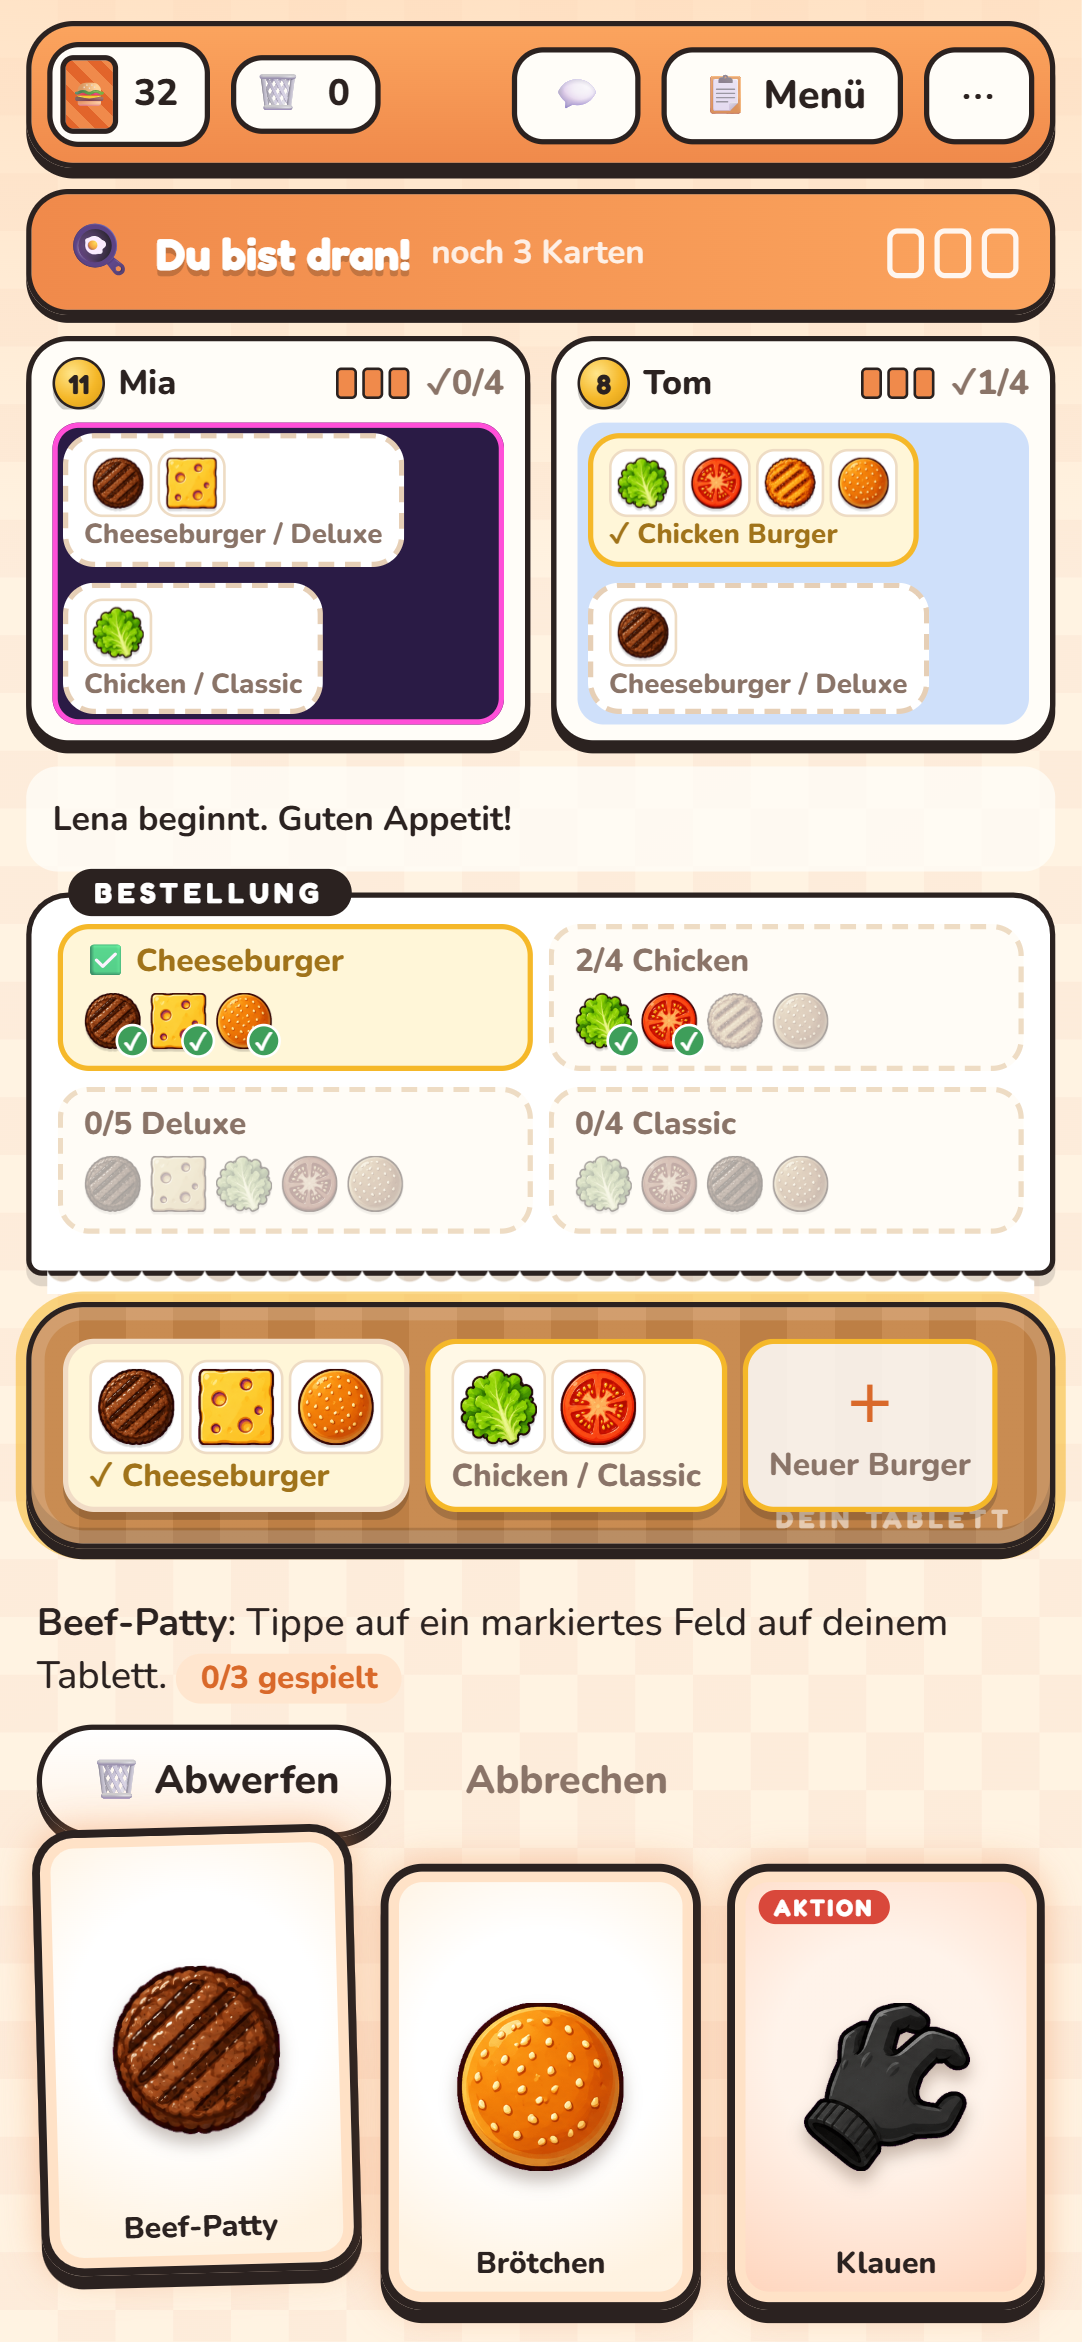
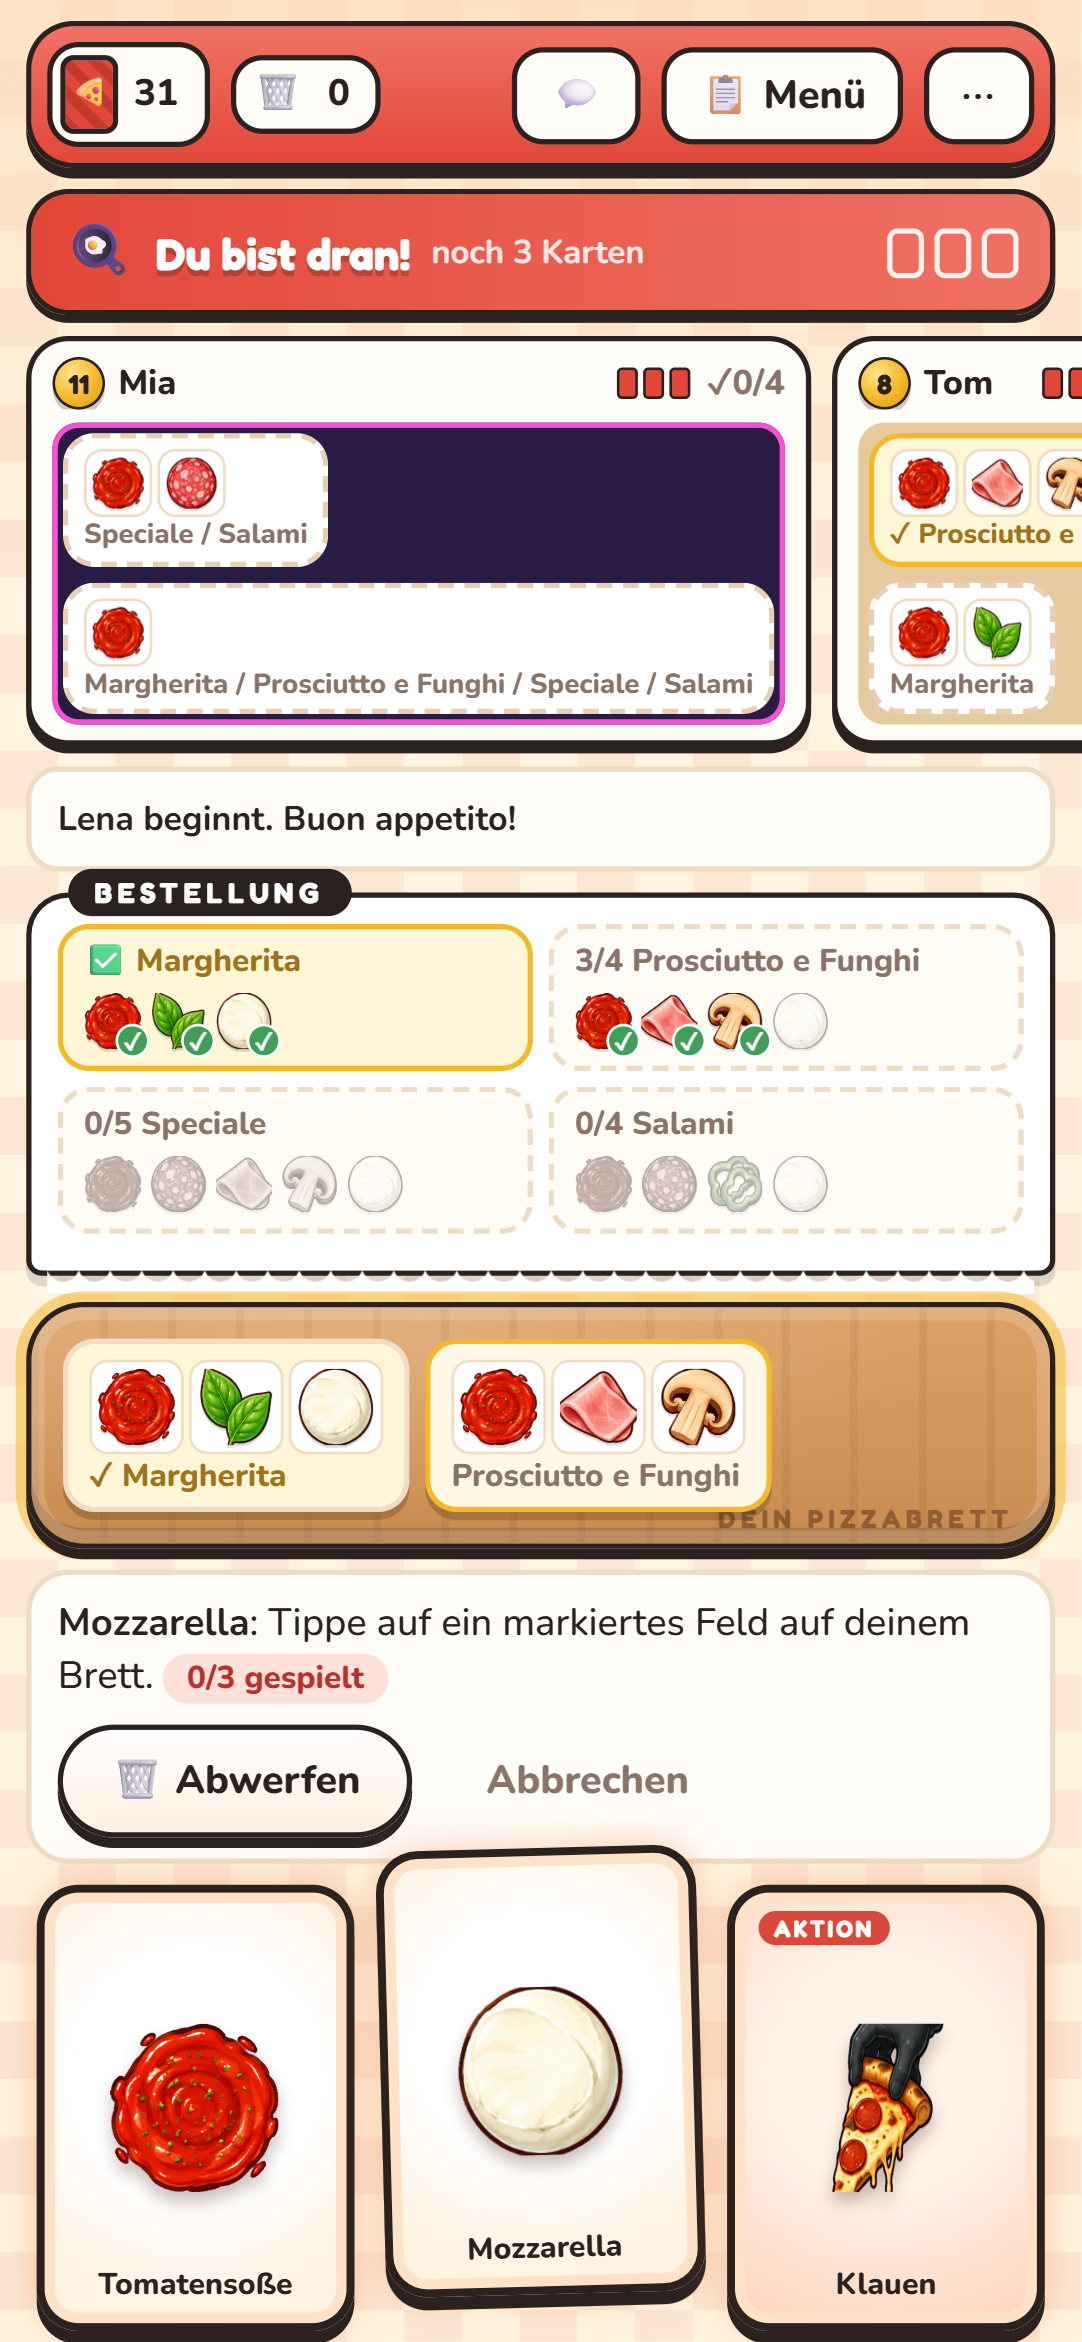
Store-Eintrag: Texte, 8 Screenshots, Vorstellungsgrafik für Pizza Panic

diff --git a/tools/store-promo/promo.html b/tools/store-promo/promo.html
@@ -3,61 +3,59 @@
 <head>
 <meta charset="utf-8">
 <link rel="stylesheet" href="fonts.css">
+<!-- Store-Bilder: Ordner mit fonts.css, fonts/, img/ und _shots/ (Rohbilder aus tools/store-promo/shots) bereitstellen,
+     dann ?n=1..8 (1080x1920) bzw. ?feature=1 (1024x500) im Browser öffnen und als Bild speichern. -->
 <style>
   * { box-sizing: border-box; margin: 0; }
   body { width: 1080px; height: 1920px; overflow: hidden; font-family: 'Nunito', sans-serif; }
   .slide {
     position: relative; width: 1080px; height: 1920px; overflow: hidden;
     background:
-      radial-gradient(900px 700px at 50% 0%, #FFB37A 0%, rgba(255, 179, 122, 0) 70%),
-      repeating-conic-gradient(rgba(255, 255, 255, .07) 0 25%, transparent 0 50%) 0 0 / 90px 90px,
-      linear-gradient(170deg, #F79A5A 0%, #EE7B3A 55%, #D9592A 100%);
+      radial-gradient(900px 700px at 50% 0%, #F7857A 0%, rgba(247, 133, 122, 0) 70%),
+      repeating-conic-gradient(rgba(255, 255, 255, .08) 0 25%, transparent 0 50%) 0 0 / 90px 90px,
+      linear-gradient(170deg, #E9564A 0%, #D23E32 55%, #A92A22 100%);
   }
   .cap { position: absolute; top: 70px; left: 60px; right: 60px; text-align: center; color: #fff; }
   .cap h1 {
     font: 700 84px/1.02 'Fredoka', sans-serif; letter-spacing: .5px;
     -webkit-text-stroke: 9px #2B2220; paint-order: stroke fill; text-shadow: 0 8px 0 rgba(43, 34, 32, .35);
   }
-  .cap p { margin-top: 22px; font: 800 38px/1.25 'Nunito', sans-serif; color: #FFF3E2; text-shadow: 0 3px 0 rgba(43, 34, 32, .3); }
+  .cap p { margin-top: 22px; font: 800 38px/1.25 'Nunito', sans-serif; color: #FFF4E0; text-shadow: 0 3px 0 rgba(43, 34, 32, .3); }
   .phone {
     position: absolute; left: 50%; top: 400px; transform: translateX(-50%) rotate(var(--rot, 0deg));
     width: 700px; padding: 22px; border-radius: 76px; background: #2B2220;
-    box-shadow: 0 30px 60px rgba(60, 20, 0, .45), inset 0 0 0 4px #4A3A35;
+    box-shadow: 0 30px 60px rgba(60, 10, 0, .45), inset 0 0 0 4px #4A3A35;
   }
   .phone img.shot { display: block; width: 100%; border-radius: 56px; }
   .phone::before { content: ''; position: absolute; top: 40px; left: 50%; width: 22px; height: 22px; margin-left: -11px; border-radius: 50%; background: #111; z-index: 2; }
   .deco { position: absolute; width: 190px; filter: drop-shadow(0 12px 10px rgba(0, 0, 0, .3)); }
-  .badge {
-    position: absolute; padding: 14px 26px; border-radius: 999px; background: #FFE58A; border: 6px solid #2B2220;
-    font: 700 40px 'Fredoka', sans-serif; color: #2B2220; box-shadow: 0 8px 0 #2B2220; transform: rotate(-6deg);
-  }
   /* Vorstellungsgrafik 1024x500 */
   .feature { width: 1024px; height: 500px; position: relative; overflow: hidden;
     background:
-      radial-gradient(600px 400px at 30% 40%, #FFB37A 0%, rgba(255, 179, 122, 0) 70%),
-      repeating-conic-gradient(rgba(255, 255, 255, .07) 0 25%, transparent 0 50%) 0 0 / 60px 60px,
-      linear-gradient(160deg, #F79A5A, #E2652B);
+      radial-gradient(600px 400px at 30% 40%, #F7857A 0%, rgba(247, 133, 122, 0) 70%),
+      repeating-conic-gradient(rgba(255, 255, 255, .08) 0 25%, transparent 0 50%) 0 0 / 60px 60px,
+      linear-gradient(160deg, #E9564A, #B8322A);
   }
-  .feature .logo { position: absolute; left: 40px; top: 26px; height: 330px; filter: drop-shadow(0 12px 12px rgba(0, 0, 0, .3)); }
+  .feature .logo { position: absolute; left: 40px; top: 14px; height: 360px; filter: drop-shadow(0 12px 12px rgba(0, 0, 0, .3)); }
   .feature .chef { position: absolute; right: 30px; bottom: -10px; height: 470px; filter: drop-shadow(0 12px 12px rgba(0, 0, 0, .3)); }
   .feature .tag { position: absolute; left: 50px; bottom: 34px; font: 700 44px 'Fredoka', sans-serif; color: #fff;
     -webkit-text-stroke: 6px #2B2220; paint-order: stroke fill; }
-  .feature .ings { position: absolute; left: 560px; top: 60px; display: flex; flex-direction: column; gap: 14px; }
-  .feature .ings img { width: 70px; filter: drop-shadow(0 6px 4px rgba(0, 0, 0, .3)); }
+  .feature .ings { position: absolute; left: 470px; top: 40px; display: grid; grid-template-columns: repeat(2, 80px); gap: 14px; }
+  .feature .ings img { width: 80px; filter: drop-shadow(0 6px 4px rgba(0, 0, 0, .3)); }
 </style>
 </head>
 <body>
 <div id="root"></div>
 <script>
   const SLIDES = {
-    1: { h: 'Bau Burger.<br>Smash die Konkurrenz!', p: 'Das Online-Kartenspiel für 2–6 Freunde', shot: '1-home', deco: [['burn', 40, 1500, -12], ['steal', 860, 1480, 10]] },
-    2: { h: 'Bau alle Burger<br>deiner Bestellung', p: 'Leuchtende Felder zeigen dir, wo deine Karte hinpasst', shot: '2-game', deco: [['beef', 30, 1560, -8], ['bun', 880, 1590, 12]] },
+    1: { h: 'Belege Pizzen.<br>Stifte Panik!', p: 'Das Online-Kartenspiel für 2–6 Freunde', shot: '1-home', deco: [['burn', 40, 1500, -12], ['steal', 860, 1480, 10]] },
+    2: { h: 'Belege alle Pizzen<br>deiner Bestellung', p: 'Leuchtende Felder zeigen dir, wo deine Karte hinpasst', shot: '2-game', deco: [['sauce', 30, 1560, -8], ['mozzarella', 880, 1590, 12]] },
     3: { h: 'Klauen, Anbrennen,<br>Chaos stiften!', p: 'Mit Aktionskarten ärgerst du die Konkurrenz', shot: '3-steal', rot: '-2deg', deco: [['steal', 20, 1450, -15], ['burn', 870, 1500, 14]] },
-    4: { h: '5 Themen-Packs', p: 'Neue Zutaten, Spezial-Burger und eigener Look – jede Runde eine neue Speisekarte', shot: '4-theme', deco: [['pumpkin', 30, 1520, -10], ['monstersauce', 870, 1560, 10]] },
-    5: { h: 'Tabletts & Emotes<br>freischalten', p: 'Münzen verdienst du in jeder Runde', shot: '5-shop', deco: [['pineapple', 30, 1560, -10], ['jalapeno', 880, 1540, 12]] },
-    6: { h: 'Koch Kalle<br>erklärt dir alles', p: 'Lerne das Spiel Schritt für Schritt in einer Übungsrunde', shot: '6-tutorial', chef: 'chef-wave' },
-    7: { h: 'Freunde, Spieler<br>oder Bots', p: 'Schnelles Spiel mit Gegnern auf deinem Level – oder sofort gegen Bots', shot: '7-quick', deco: [['salad', 30, 1560, -10], ['tomato', 880, 1560, 12]] },
-    8: { h: 'Steig auf bis zur<br>Burger-Legende', p: 'Sammle XP, steig im Level auf und schalte Belohnungen frei', shot: '8-win', chef: 'chef-cheer' },
+    4: { h: '5 Themen-Packs', p: 'Neue Zutaten, Spezial-Pizzen und eigener Look – jede Runde eine neue Bestellung', shot: '4-theme', deco: [['peperoni', 30, 1520, -10], ['onion', 870, 1560, 10]] },
+    5: { h: 'Pizzabretter & Emotes<br>freischalten', p: 'Münzen verdienst du in jeder Runde', shot: '5-shop', deco: [['pineapple', 30, 1560, -10], ['olive', 880, 1540, 12]] },
+    6: { h: 'Pizzabäcker Luigi<br>erklärt dir alles', p: 'Lerne das Spiel Schritt für Schritt in einer Übungsrunde', shot: '6-tutorial', chef: 'chef-wave' },
+    7: { h: 'Freunde, Spieler<br>oder Bots', p: 'Schnelles Spiel mit Gegnern auf deinem Level – oder sofort gegen Bots', shot: '7-quick', deco: [['basil', 30, 1560, -10], ['mushroom', 880, 1560, 12]] },
+    8: { h: 'Steig auf bis zur<br>Pizza-Legende', p: 'Sammle XP, steig im Level auf und schalte Belohnungen frei', shot: '8-win', chef: 'chef-cheer' },
   };
   const q = new URLSearchParams(location.search);
   const root = document.getElementById('root');
@@ -65,9 +63,9 @@
     document.body.style.width = '1024px'; document.body.style.height = '500px';
     root.innerHTML = `<div class="feature">
       <img class="logo" src="img/logo.png">
-      <div class="ings">${['beef', 'cheese', 'salad', 'tomato'].map(i => `<img src="img/${i}.png">`).join('')}</div>
+      <div class="ings">${['sauce', 'basil', 'salami', 'mushroom', 'pepper', 'mozzarella'].map(i => `<img src="img/${i}.png">`).join('')}</div>
       <img class="chef" src="img/chef-cheer.png">
-      <div class="tag">Das Burger-Kartenspiel für Freunde!</div>
+      <div class="tag">Das Pizza-Kartenspiel für Freunde!</div>
     </div>`;
   } else {
     const s = SLIDES[q.get('n') || 1];
@@ -75,7 +73,7 @@
       <div class="cap"><h1>${s.h}</h1><p>${s.p}</p></div>
       <div class="phone" style="--rot:${s.rot || '0deg'}"><img class="shot" src="_shots/${s.shot}.png"></div>
       ${(s.deco || []).map(([img, x, y, r]) => `<img class="deco" src="img/${img}.png" style="left:${x}px;top:${y}px;transform:rotate(${r}deg)">`).join('')}
-      ${s.chef ? `<img class="deco" src="img/${s.chef}.png" style="width:300px;left:-10px;top:1460px">` : ''}
+      ${s.chef ? `<img class="deco" src="img/${s.chef}.png" style="width:300px;left:-10px;top:1320px">` : ''}
     </div>`;
   }
 </script>

diff --git a/store/store-eintrag.md b/store/store-eintrag.md
@@ -1,54 +1,56 @@
-# Play-Store-Eintrag – Smash Burger
+# Play-Store-Eintrag – Pizza Panic
 
-**App-Name (max. 30):** Smash Burger – Kartenspiel
+**App-Name (max. 30):** Pizza Panic – Kartenspiel
 
 **Kurzbeschreibung (max. 80):**
-Bau deine Burger, klau die der anderen – das Online-Kartenspiel für 2–6 Freunde!
+Belege Pizzen, klau die der anderen – das Online-Kartenspiel für 2–6 Freunde!
 
 **Vollständige Beschreibung:**
 
-Bereite deinen Burger zu. Smashe die Konkurrenz! 🍔
+Belege deine Pizzen. Bring die Konkurrenz in Panik! 🍕
 
-In diesem Restaurant gibt es nur eine Mission: Stell als Erste:r alle Burger der Speisekarte fertig – und mach dabei die Burger der anderen platt. Wer trödelt, wird gesmasht!
+In dieser Pizzeria zählt nur eins: Stell als Erste:r alle Pizzen deiner Bestellung fertig – und lass dabei die Pizzen der anderen anbrennen. Wer trödelt, landet im Müll!
 
-🍔 SO EINFACH GEHT'S
+🍕 SO EINFACH GEHT'S
 • Tisch eröffnen, Code oder Link an Freunde schicken – fertig.
 • Jede:r spielt auf dem eigenen Handy, egal ob nebeneinander auf dem Sofa oder quer durchs Land.
 • Spiele pro Zug 1 bis 3 Karten: Zutaten legen, Karten abwerfen oder Chaos stiften.
+• Erst die Tomatensoße, zum Schluss der Mozzarella – dazwischen Salami, Schinken, Pilze, Basilikum & Co.
 
 🔥 AKTIONSKARTEN
-• Anbrennen: Verbrenne einen beliebigen Burger – ab in den Müll!
-• Klauen: Schnapp dir einen fertigen Burger oder die oberste Zutat.
+• Anbrennen: Lass eine beliebige Pizza im Ofen verkohlen – ab in den Müll!
+• Klauen: Schnapp dir eine fertige Pizza oder die oberste Zutat.
 • Mülltaucher: Fisch dir eine Zutat aus dem Müll.
-• Falscher Tisch: Alle Tabletts wandern eine Person weiter.
+• Falscher Tisch: Alle Pizzabretter wandern eine Person weiter.
 
 👯 Zwei gleiche Karten auf der Hand? Wirf sie ab und zieh blind eine Karte von jemand anderem!
 
 ✨ FEATURES
 • 2–6 Spieler:innen, ca. 20 Minuten pro Runde
-• Zu wenige Leute? Hol dir Bots an den Tisch
+• Zu wenige Leute? Hol dir Bots an den Tisch – leicht, normal oder schwer
 • Die App zeigt dir immer, wo deine Karte hinpasst – Regeln lernen in einer Runde
-• Level-System: Steig auf vom Tellerwäscher zur Burger-Legende – beim Schnellen Spiel triffst du Gegner auf deinem Niveau
-• Übungsrunde mit Koch Kalle, der dir alles Schritt für Schritt erklärt
-• Shop mit Tablett-Designs und Emotes – alles auch einfach durchs Spielen freischaltbar
+• Level-System: Steig auf vom Tellerwäscher zur Pizza-Legende – beim Schnellen Spiel triffst du Gegner auf deinem Niveau
+• Übungsrunde mit Pizzabäcker Luigi, der dir alles Schritt für Schritt erklärt
+• 5 Themen-Packs: Aloha Hawaii, Feuer & Flamme, Grüner Garten, Frutti di Mare und Weihnachtsbäckerei – mit neuen Zutaten und Spezial-Pizzen
+• Shop mit Pizzabrett-Designs und Emotes – alles auch einfach durchs Spielen freischaltbar
 • Kein Konto, keine Anmeldung, keine Zwangswerbung – Videos nur, wenn du willst
 
-Los geht's – ab in die Küche!
+Buon appetito – ab in die Pizzeria!
 
 ---
 
 **Kategorie:** Spiele → Karten
 **Tags:** Kartenspiel, Partyspiel, Multiplayer, Familie
-**Altersfreigabe (IARC-Fragebogen):** keine Gewalt, keine Glücksspiele, kein Chat → voraussichtlich USK 0 / PEGI 3
-**Datenschutzerklärung:** https://smash-burger.onrender.com/datenschutz.html
-**Impressum:** https://smash-burger.onrender.com/impressum.html
+**Altersfreigabe (IARC-Fragebogen):** keine Gewalt, keine Glücksspiele, kein Chat (nur feste Emotes) → voraussichtlich USK 0 / PEGI 3
+**Datenschutzerklärung:** https://pizza-panic.onrender.com/datenschutz.html
+**Impressum:** https://pizza-panic.onrender.com/impressum.html
 **Entwickler:** DuOh Corporation UG (haftungsbeschränkt), Schmiedstraße 5, 52062 Aachen
 **Kontakt-E-Mail:** info@duohcorporation.com
 **Telefon:** +49 170 8388703
 
 **Enthält Werbung:** Ja (nur freiwillige Belohnungsvideos über Google AdMob)
 **In-App-Käufe:** Ja (0,99 € – 5,99 € pro Artikel)
-**Website (für app-ads.txt):** https://smash-burger.onrender.com – die Datei liegt unter https://smash-burger.onrender.com/app-ads.txt
+**Website (für app-ads.txt):** https://pizza-panic.onrender.com – die Datei liegt unter https://pizza-panic.onrender.com/app-ads.txt
 
 **Datensicherheit (Formular in der Play Console):**
 - Werden Daten erhoben? Ja:
@@ -59,7 +61,7 @@ Los geht's – ab in die Küche!
   - „Finanzdaten → Kaufverlauf“ (Kaufkennung) – Zweck: App-Funktionalität, nicht geteilt
 - Verschlüsselung bei Übertragung: Ja (HTTPS)
 - Können Nutzer:innen die Löschung beantragen? Ja – in der App (✏ neben dem Namen → „Profil löschen“) oder per E-Mail an info@duohcorporation.com
-- Link zur Kontolöschung (falls gefragt): https://smash-burger.onrender.com/datenschutz.html (Abschnitt 5)
+- Link zur Kontolöschung (falls gefragt): https://pizza-panic.onrender.com/datenschutz.html (Abschnitt 5)
 
 **In-App-Produkte (Play Console → Monetarisieren → Produkte → In-App-Produkte):**
 | Produkt-ID | Name | Preis |
@@ -68,15 +70,18 @@ Los geht's – ab in die Küche!
 | muenzen_1000 | 1.000 Münzen | 2,99 € |
 | muenzen_2500 | 2.500 Münzen | 5,99 € |
 | unterstuetzer | Unterstützer:in | 2,99 € |
-| pack_mexiko | Themen-Pack Fiesta Mexicana | 0,99 € |
 | pack_hawaii | Themen-Pack Aloha Hawaii | 0,99 € |
-| pack_westen | Themen-Pack Wilder Westen | 0,99 € |
-| pack_grusel | Themen-Pack Gruselküche | 0,99 € |
-| pack_winter | Themen-Pack Winterzauber | 0,99 € |
+| pack_diavolo | Themen-Pack Feuer & Flamme | 0,99 € |
+| pack_veggie | Themen-Pack Grüner Garten | 0,99 € |
+| pack_meer | Themen-Pack Frutti di Mare | 0,99 € |
+| pack_weihnachten | Themen-Pack Weihnachtsbäckerei | 0,99 € |
 
-**AdMob:** App „Smash Burger“ ca-app-pub-2648510730204337~7315516608, Anzeigenblock „Belohnung“ ca-app-pub-2648510730204337/1514901729.
+Münzen-Pakete = Verbrauchsartikel; Unterstützer:in und Themen-Packs = einmaliger Kauf (nicht verbrauchbar).
+
+**AdMob:** App „Pizza Panic“ ca-app-pub-2648510730204337~7315516608, Anzeigenblock „Belohnung“ ca-app-pub-2648510730204337/1514901729.
 
 **Grafiken in diesem Ordner:**
-- `app-icon-512.png` → App-Symbol
+- `app-icon-512.png` → App-Symbol (512×512)
 - `feature-graphic.png` (1024×500) → Vorstellungsgrafik
-- `screenshot-*.png` (1080×2160) → Smartphone-Screenshots
+- `screenshot-1..8-*.png` (1080×1920) → Smartphone-Screenshots
+- Neu bauen: Rohbilder in `tools/store-promo/shots`, Vorlage `tools/store-promo/promo.html` (?n=1..8, ?feature=1)
